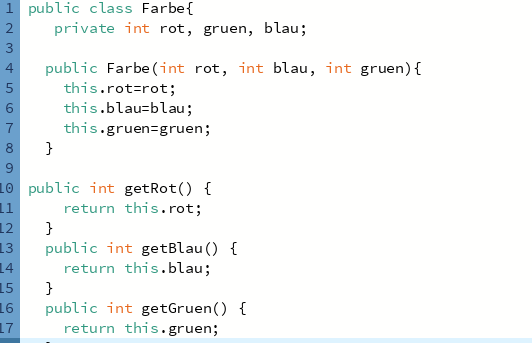
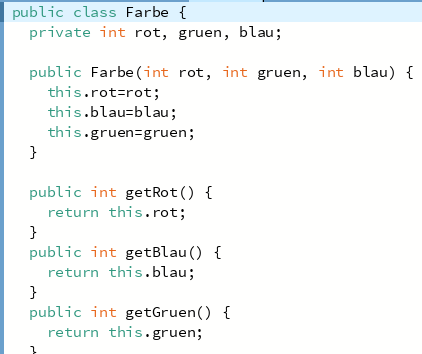
RGBFehler behoben2

Changed region(s): [[0.0, 0.0, 1.0, 1.0], [0.4929, 0.5248, 0.5237, 0.5539]]

diff --git a/00Informatik/ProcessingLinienstaerke/index.html b/00Informatik/ProcessingLinienstaerke/index.html
@@ -1,0 +1,40 @@
+<!DOCTYPE html>
+<html>
+
+<head>
+  <script src="https://Hi2272.github.io/vanillatoasts.js"></script>
+  <link href="https://Hi2272.github.io/vanillatoasts.css" rel="stylesheet">
+
+
+  <meta charset="utf-8" />
+  <title id="Titel"></title>
+  <link rel="stylesheet" href="https://Hi2272.github.io/Style.css">
+ <script src="https://Hi2272.github.io/AufgabenstellungProcessing.js"></script>
+<!--    <script src="AufgabenstellungProcessing.js"></script>
+--> 
+
+</head>
+
+<body>
+  <header>
+    <h1 id="Ueberschrift"></h1>
+    <div id="Angabe"></div>
+    <div style="font-size:small" id="BlueJ"></div>
+  </header>
+
+  <section id="Menue" style="display: flexbox;">    
+
+  </section>
+  <section>
+    <br>
+    <div id="Bild" style="font-size:large;"></div>
+    </div>
+  </section>
+  <footer>
+    <div id="btnWeiter"></div>
+    <div id="quelle" style="font-size: x-small; text-align: right;"></div></div> 
+  </footer>
+
+</body>
+
+</html>

diff --git a/00Informatik/index.html b/00Informatik/index.html
@@ -70,6 +70,8 @@
       <a href="https://Hi2272.github.io/00Informatik/ProcessingVererbung/index.html">Processing-Projekt: Formen</a><br>  
       <a href="https://Hi2272.github.io/00Informatik/ProcessingLinien/index.html">Processing-Projekt: Formen II: Linien</a><br>  
       <a href="https://Hi2272.github.io/00Informatik/ProcessingDreieck/index.html">Processing-Projekt: Formen III: Dreieck</a><br>  
+      <a href="https://Hi2272.github.io/00Informatik/ProcessingLinienfarbe/index.html">Processing-Projekt: Formen IV: Linienfarbe</a><br>  
+      <a href="https://Hi2272.github.io/00Informatik/ProcessingLinienstaerke/index.html">Processing-Projekt: Formen V: Linienstärke</a><br>  
       
       <h2>Bedingte Anweisungen</h2>
       <a href="https://Hi2272.github.io/00Informatik/ProcessingBedingteAnweisung/index.html">Processing-Projekt: Ampeln schalten</a><br>  
